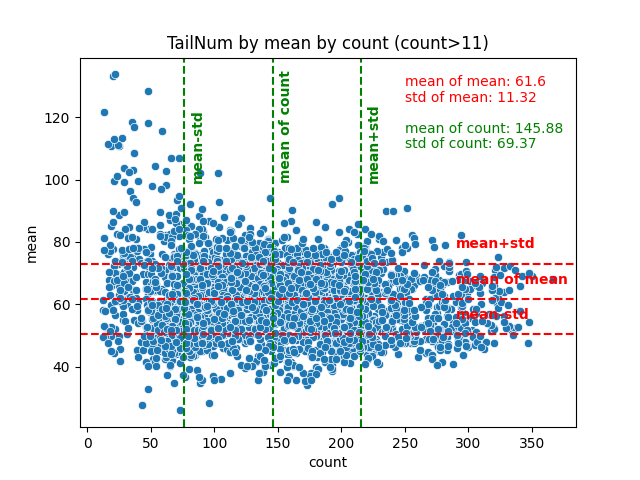
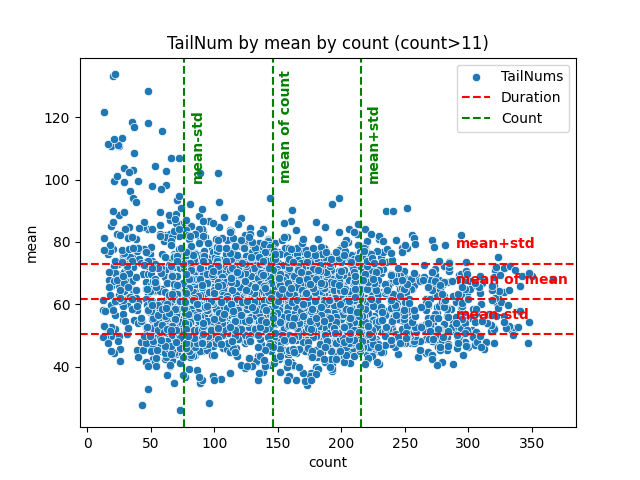
changed tailnum by mean by count (>11)

Changed region(s): [[0.625, 0.125, 0.9062, 0.3125]]

diff --git a/README.md b/README.md
@@ -391,29 +391,25 @@ Therefore, a taxi time from 0 should **not** be possible.
     # mean for mean and mean for count
     plt.axhline(df_tn['mean'].mean(), color='red', linestyle='--')
     plt.axvline(df_tn['count'].mean(), color='green', linestyle='--')
-    plt.text(290, df_tn['mean'].mean()+5, 'mean of mean', color='red', weight='bold')
-    plt.text(df_tn['count'].mean()+5, 100, 'mean of count', color='green', weight='bold', rotation=90)
+    plt.text(290, df_tn['mean'].mean() + 5, 'mean of mean', color='red', weight='bold')
+    plt.text(df_tn['count'].mean() + 5, 100, 'mean of count', color='green', weight='bold', rotation=90)
 
     # average max and min delay
-    plt.axhline(df_tn['mean'].mean()+df_tn['mean'].std(), color='red', linestyle='--')
-    plt.axhline(df_tn['mean'].mean()-df_tn['mean'].std(), color='red', linestyle='--')
-    plt.text(290, df_tn['mean'].mean()+df_tn['mean'].std()+5, 'mean+std', color='red', weight='bold')
-    plt.text(290, df_tn['mean'].mean()-df_tn['mean'].std()+5, 'mean-std', color='red', weight='bold')
+    plt.axhline(df_tn['mean'].mean() + df_tn['mean'].std(), color='red', linestyle='--')
+    plt.axhline(df_tn['mean'].mean() - df_tn['mean'].std(), color='red', linestyle='--')
+    plt.text(290, df_tn['mean'].mean() + df_tn['mean'].std() + 5, 'mean+std', color='red', weight='bold')
+    plt.text(290, df_tn['mean'].mean() - df_tn['mean'].std() + 5, 'mean-std', color='red', weight='bold')
 
     # average max and min count
-    plt.axvline(df_tn['count'].mean()+df_tn['count'].std(), color='green', linestyle='--')
-    plt.axvline(df_tn['count'].mean()-df_tn['count'].std(), color='green', linestyle='--')
-    plt.text(df_tn['count'].mean()+df_tn['count'].std()+5, 100, 'mean+std', color='green', weight='bold', rotation=90)
-    plt.text(df_tn['count'].mean()-df_tn['count'].std()+5, 100, 'mean-std', color='green', weight='bold', rotation=90)
-
-    # top right corner text
-    plt.text(250, 130, 'mean of mean: ' + str(round(df_tn['mean'].mean(), 2)), color='red')
-    plt.text(250, 125, 'std of mean: ' + str(round(df_tn['mean'].std(), 2)), color='red')
-    plt.text(250, 115, 'mean of count: ' + str(round(df_tn['count'].mean(), 2)), color='green')
-    plt.text(250, 110, 'std of count: ' + str(round(df_tn['count'].std(), 2)), color='green')
+    plt.axvline(df_tn['count'].mean() + df_tn['count'].std(), color='green', linestyle='--')
+    plt.axvline(df_tn['count'].mean() - df_tn['count'].std(), color='green', linestyle='--')
+    plt.text(df_tn['count'].mean() + df_tn['count'].std() + 5, 100, 'mean+std', color='green', weight='bold',
+             rotation=90)
+    plt.text(df_tn['count'].mean() - df_tn['count'].std() + 5, 100, 'mean-std', color='green', weight='bold',
+             rotation=90)
 
     plt.title('TailNum by mean by count (count>11)')
-
+    plt.legend(['TailNums', 'Duration', 'Count'])
     plt.show()
 
 Okay. Since one doesn't get any information out of this, I present you the bell curve of the mean (the duration) and the count.
